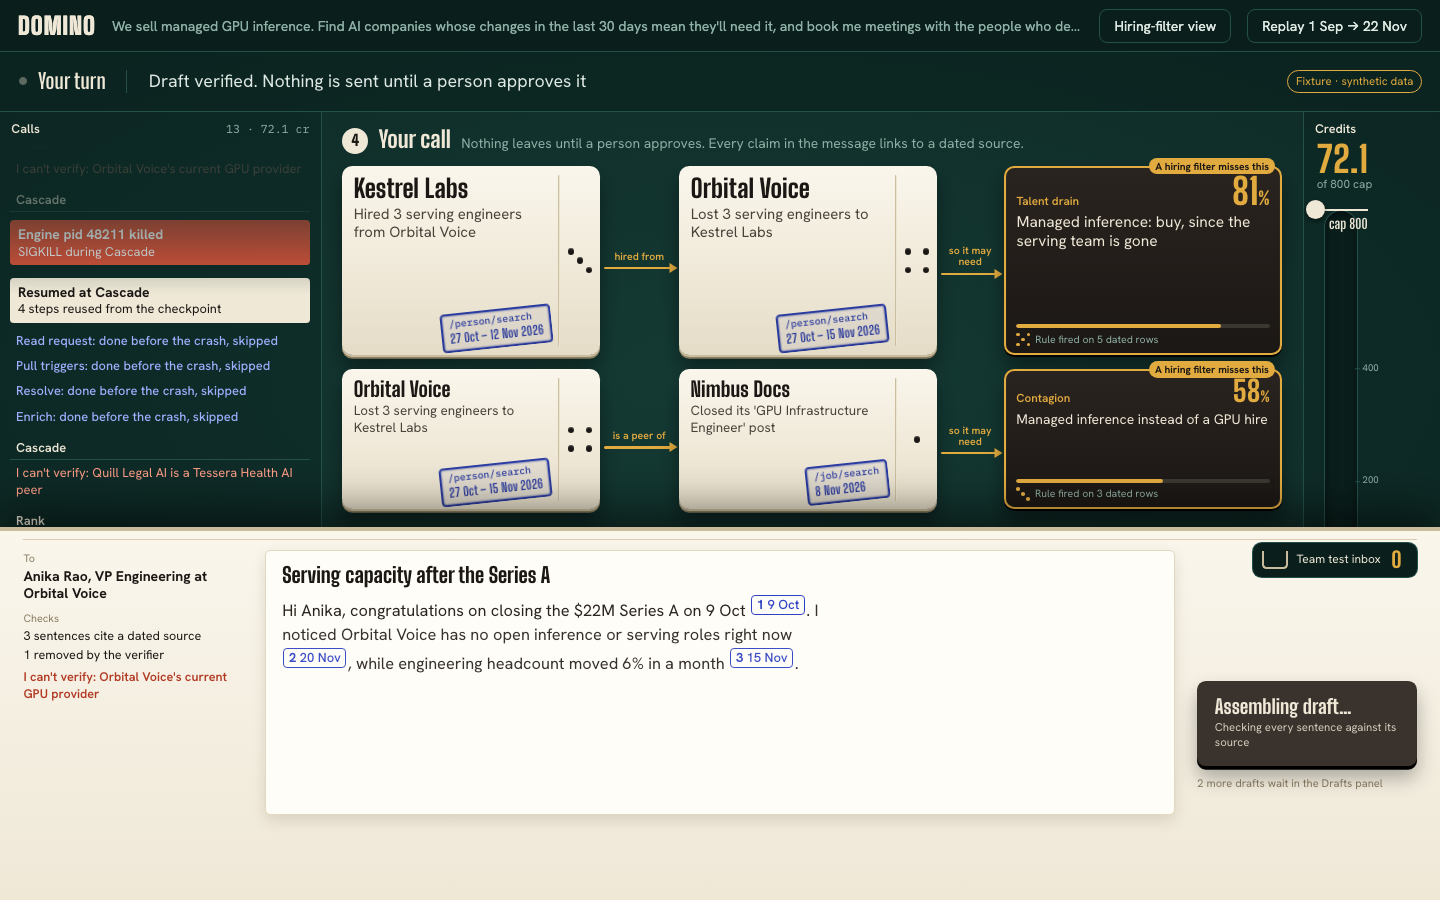
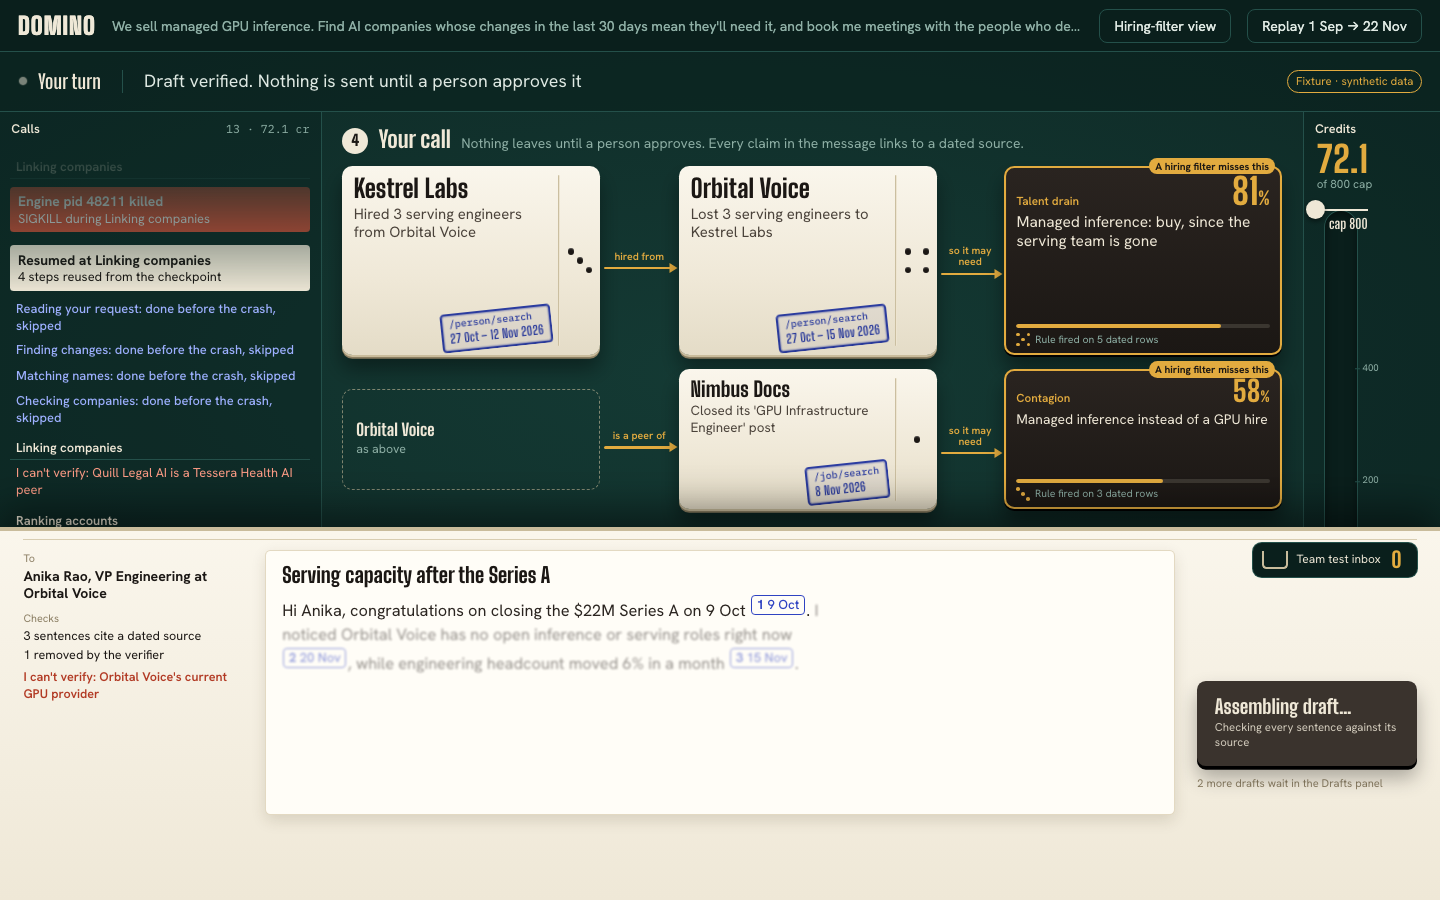
Theatre: ui-council round 2 polish
Plain step names everywhere (Finding changes, Linking companies, Writing with sources ...); a company
that already has a tile repeats as a slim 'as above' ghost; the now-line wraps instead of clipping;
names resolve from what was read before the snapshot knows them.

diff --git a/web/src/centrepiece/mission/Chain.tsx b/web/src/centrepiece/mission/Chain.tsx
@@ -47,9 +47,17 @@ function Stamp({ endpoint, dates, onClick, tone = 'ink' }: { endpoint: string; d
   );
 }
 
-function Tile({ tile, role, delay, selected, dimmed, onSelect }: {
-  tile: ChainTile; role: 'from' | 'to'; delay: number; selected: boolean; dimmed: boolean; onSelect: (s: Selection) => void;
+function Tile({ tile, role, delay, selected, dimmed, onSelect, repeat = false }: {
+  tile: ChainTile; role: 'from' | 'to'; delay: number; selected: boolean; dimmed: boolean; onSelect: (s: Selection) => void; repeat?: boolean;
 }) {
+  if (repeat) {
+    return (
+      <button type="button" className={`mc-tile mc-tile--repeat${selected ? ' is-selected' : ''}`} style={{ ['--d' as string]: `${delay}ms` }} onClick={() => onSelect({ kind: 'node', id: tile.nodeId })}>
+        <span className="mc-tile__name">{tile.name}</span>
+        <span className="mc-tile__fact">as above</span>
+      </button>
+    );
+  }
   return (
     <div
       className={`mc-tile mc-tile--${role}${selected ? ' is-selected' : ''}${dimmed ? ' is-dimmed' : ''}`}
@@ -147,6 +155,7 @@ export function ChainStage({ rows, settledSeq, selection, onSelect, hiringFilter
 }) {
   const shown = rows.slice(0, maxRows);
   let animIndex = 0;
+  const shownTiles = new Set<string>();
   const isSel = (kind: Selection['kind'], id: string) => selection?.kind === kind && selection.id === id;
   return (
     <div className="mc-chains" data-count={shown.length}>
@@ -154,11 +163,15 @@ export function ChainStage({ rows, settledSeq, selection, onSelect, hiringFilter
         const animate = !reducedMotion && row.seq > settledSeq;
         const base = animate ? animIndex++ * 900 : 0;
         const step = 320;
+        const fromRepeat = shownTiles.has(row.from.nodeId);
+        shownTiles.add(row.from.nodeId);
+        const toRepeat = shownTiles.has(row.to.nodeId);
+        shownTiles.add(row.to.nodeId);
         return (
           <div key={row.edge.id} className={`mc-row${animate ? ' is-live' : ' is-settled'}${i === 0 ? ' is-lead' : ''}${row.unverifiable ? ' is-broken' : ''}`}>
-            <Tile tile={row.from} role="from" delay={base} selected={isSel('node', row.from.nodeId)} dimmed={hiringFilterView && !row.from.netNew} onSelect={onSelect} />
+            <Tile tile={row.from} role="from" delay={base} selected={isSel('node', row.from.nodeId)} dimmed={hiringFilterView && !row.from.netNew} onSelect={onSelect} repeat={fromRepeat} />
             <Link row={row} delay={base + step} selected={isSel('edge', row.edge.id)} onSelect={onSelect} label={LINK_VERB[row.edge.mechanism] ?? MECHANISM_LABEL[row.edge.mechanism]} />
-            <Tile tile={row.to} role="to" delay={base + step * 2} selected={isSel('node', row.to.nodeId)} dimmed={hiringFilterView && !row.to.netNew} onSelect={onSelect} />
+            <Tile tile={row.to} role="to" delay={base + step * 2} selected={isSel('node', row.to.nodeId)} dimmed={hiringFilterView && !row.to.netNew} onSelect={onSelect} repeat={toRepeat} />
             <Link row={row} delay={base + step * 3} selected={false} onSelect={onSelect} label="so it may need" />
             <Need row={row} delay={base + step * 4} selected={isSel('target', row.edge.to)} onSelect={onSelect} />
           </div>

diff --git a/web/src/centrepiece/mission/model.ts b/web/src/centrepiece/mission/model.ts
@@ -5,18 +5,19 @@ import type {
   RunSnapshot, StepName, StoredEvent, Trigger,
 } from '../../../../shared/types.ts';
 
+// Plain step names, used everywhere a viewer sees a step.
 export const STEP_SHORT: Record<StepName, string> = {
-  parse_request: 'Read request',
-  pull_triggers: 'Pull triggers',
-  resolve_entities: 'Resolve',
-  enrich_companies: 'Enrich',
-  cascade: 'Cascade',
-  rank_targets: 'Rank',
-  find_deciders: 'Deciders',
-  warm_paths: 'Warm paths',
-  draft_messages: 'Draft + verify',
-  approval_gate: 'Approval',
-  score_replay: 'Replay score',
+  parse_request: 'Reading your request',
+  pull_triggers: 'Finding changes',
+  resolve_entities: 'Matching names',
+  enrich_companies: 'Checking companies',
+  cascade: 'Linking companies',
+  rank_targets: 'Ranking accounts',
+  find_deciders: 'Finding who decides',
+  warm_paths: 'Finding a warm intro',
+  draft_messages: 'Writing with sources',
+  approval_gate: 'Your approval',
+  score_replay: 'Were we right?',
 };
 
 export const MECHANISM_LABEL: Record<Mechanism, string> = {
@@ -305,7 +306,15 @@ export function replayView(snap: RunSnapshot, events: StoredEvent[]): ReplayView
 }
 
 export function companyName(snap: RunSnapshot, id: string): string {
-  return snap.companies.find((c) => c.id === id)?.name ?? snap.graph.nodes.find((n) => n.id === id)?.name ?? id.replace(/^co_/, '');
+  const known = snap.companies.find((c) => c.id === id)?.name ?? snap.graph.nodes.find((n) => n.id === id)?.name;
+  if (known) return known;
+  const bare = id.replace(/^co_/, '');
+  if (!/^[a-z]+$/.test(bare)) return bare;
+  // Before the snapshot knows the name, find the full name in what was read ("... employer was Orbital Voice").
+  const word = bare.charAt(0).toUpperCase() + bare.slice(1);
+  const re = new RegExp(`\\b${word}(?:\\s+[A-Z][\\w.&'-]*)*`);
+  for (const e of snap.evidence) { const m = e.claim.match(re); if (m && m[0].length > word.length) return m[0]; }
+  return word;
 }
 
 // ---------- the reading desk ----------
@@ -367,7 +376,11 @@ export function deskView(events: StoredEvent[], snap: RunSnapshot): DeskView {
       if (cand && (!bound.has(cand) || bound.get(cand) === id)) { bound.set(cand, id); return cand; }
     }
     if (/[:]|^[a-z0-9_]+$/i.test(known) && !/\s/.test(known) && known.length > 14) return 'Company name unavailable';
-    return known.charAt(0).toUpperCase() + known.slice(1);
+    // Look for the full name anywhere in what was read ("... previous employer was Orbital Voice").
+    const word = known.charAt(0).toUpperCase() + known.slice(1);
+    const re = new RegExp(`\\b${word.replace(/[.*+?^${}()|[\]\\]/g, '\\$&')}(?:\\s+[A-Z][\\w.&'-]*)*`);
+    for (const c of claims.values()) { const m = c.match(re); if (m && m[0].length > word.length) return m[0]; }
+    return word;
   };
   const sawSourceRead = events.some((e) => e.event.type === 'source.read');
   const open = new Map<string, { endpoint: string; attempt: number; seq: number }>();

diff --git a/web/src/centrepiece/mission/mission.css b/web/src/centrepiece/mission/mission.css
@@ -754,3 +754,16 @@
 .mc-ptile { height: 4em; }
 .mc-crash.is-live .mc-crash__text > :nth-child(4) { animation: mc-type 0.01s linear 1.55s both; }
 .mc-crash.is-live .mc-crash__text > :nth-child(5) { animation: mc-type 0.01s linear 1.9s both, mc-blink 1.2s ease-in-out 1.9s infinite; }
+
+/* ui-council round 2 polish */
+.mc-say { overflow: visible; text-overflow: clip; }
+.mc-say.is-live { animation-name: mc-fade; }
+.mc-rail__label { white-space: normal; text-align: center; line-height: 1.1; overflow: visible; }
+.mc-tile--repeat {
+  display: flex; flex-direction: column; justify-content: center; gap: 0.2em; padding: 0.6em 0.9em; border: 0.12em dashed rgba(201, 188, 156, 0.6);
+  background: transparent; box-shadow: none; text-align: left; align-self: center; height: 72%;
+}
+.mc .mc-tile--repeat { color: var(--ivory); }
+.mc-tile--repeat .mc-tile__name { font-size: 1.15em; }
+.mc-tile--repeat .mc-tile__fact { color: var(--muted); font-size: 0.85em; }
+.mc-head__status strong { font-size: 1.35em; }
